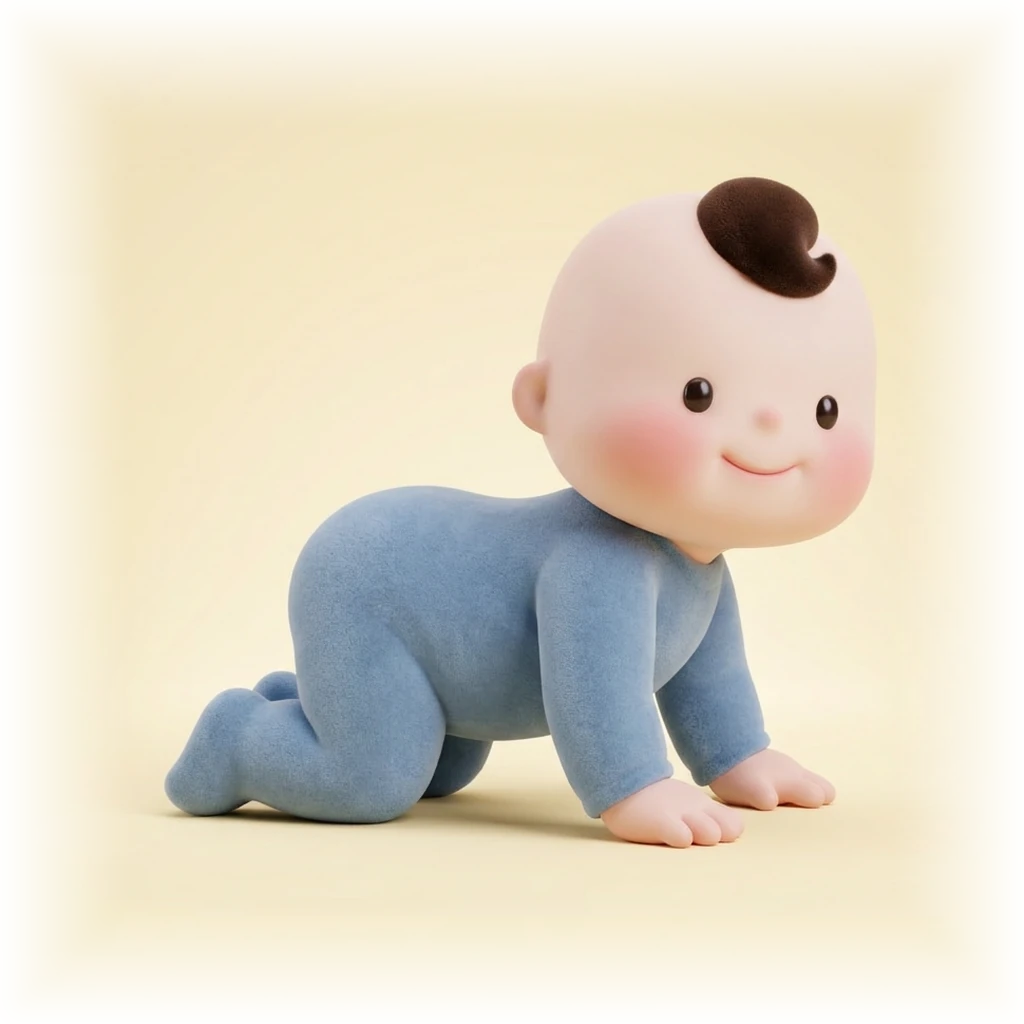
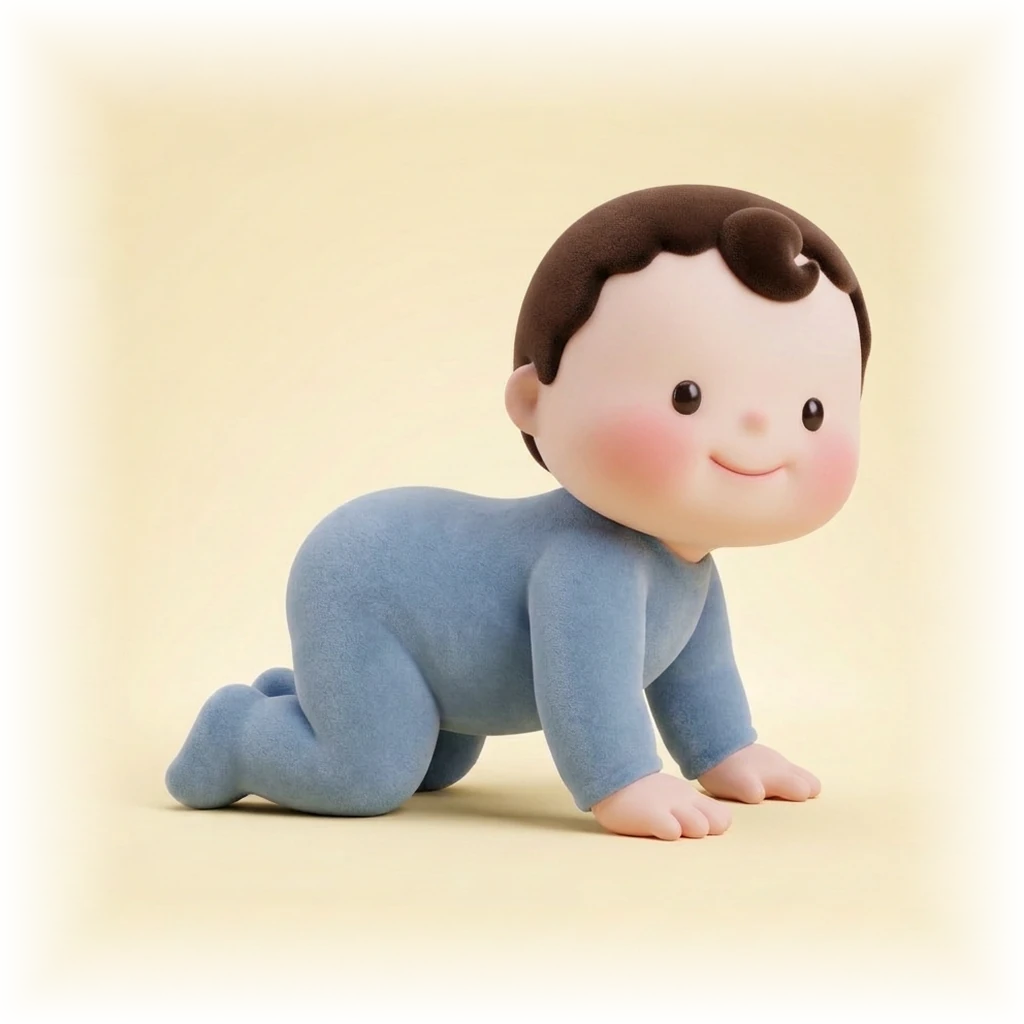
v0.63 8~9개월 아기 쉼표 가닥 머리(머리-1R A)

diff --git a/index.html b/index.html
@@ -1828,7 +1828,7 @@ function fillSettings() {
   $('set-nick').textContent = me.nickname; $('set-members').textContent = Object.values(nickById).join(', ');
   for (const b of $('char-seg').children) b.classList.toggle('on', b.dataset.v === charOf(me.id));
 }
-const VER = 'v0.62 · 10-12';
+const VER = 'v0.63 · 10-12';
 $('ver').textContent = '기특일기 ' + VER;
 $('reload-ver').textContent = VER.split(' · ')[0];
 // ── 새 판 자동 반영: 홈 화면 앱은 화면을 이어 쓰므로, 앞으로 올 때마다 서버의 VER를 보고 다르면 새로고침
